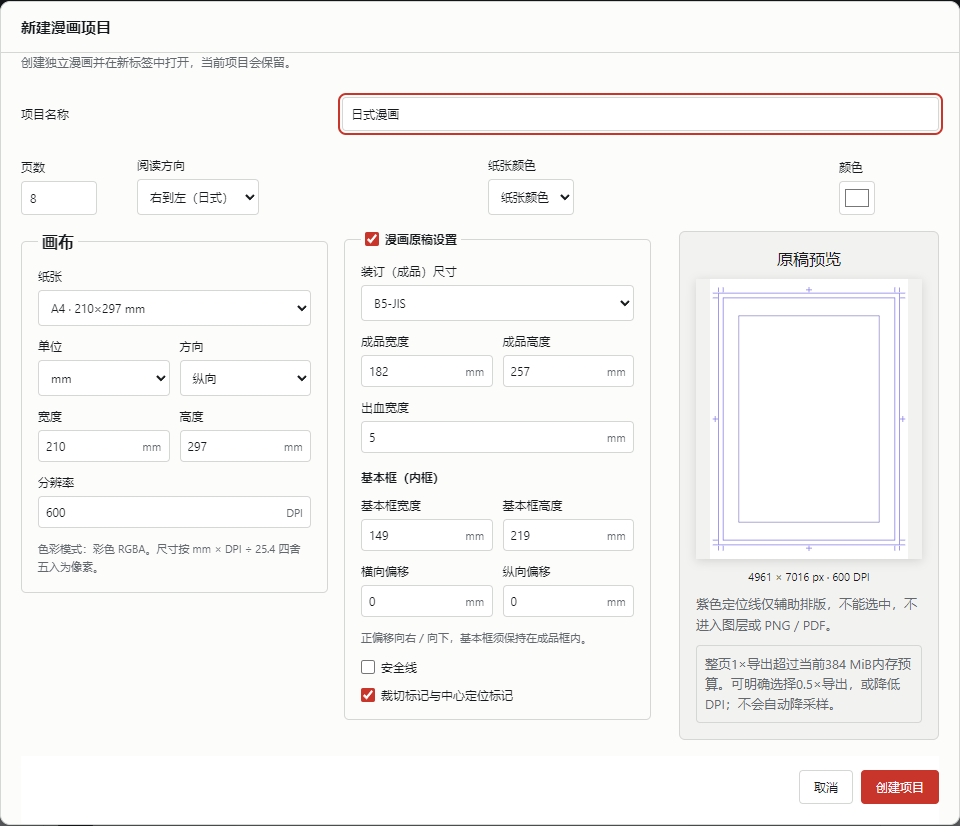
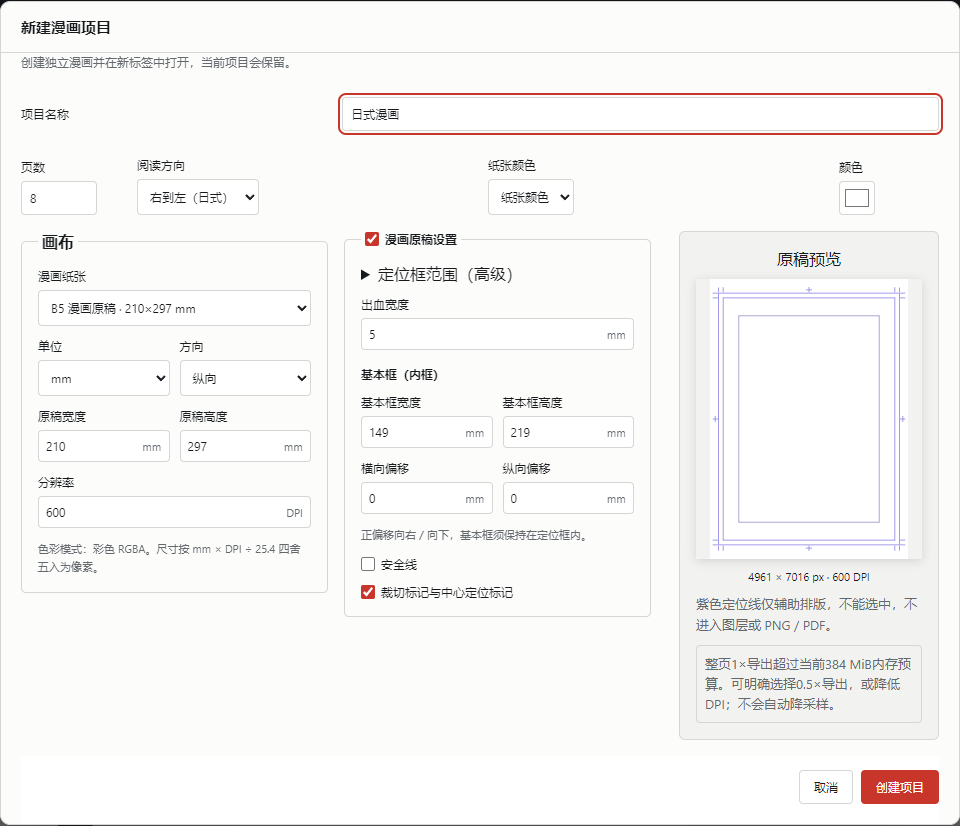
Use B5 comic manuscript preset and millimetre page controls

diff --git a/src/pages/PageSetupFields.tsx b/src/pages/PageSetupFields.tsx
@@ -5,23 +5,23 @@ import { resolvePageSize } from './commands';
 import { DEFAULT_COMIC_DPI, defaultManuscript, manuscriptSegments, parseManuscript, type ManuscriptSettings } from './manuscript';
 import './manuscript.css';
 
-export const PAPER_SIZES = { A4: [210, 297], 'B4-JIS': [257, 364], 'B4-ISO': [250, 353], 'B5-JIS': [182, 257], 'B5-ISO': [176, 250], A5: [148, 210] } as const;
-type SizePreset = keyof typeof PAPER_SIZES | 'custom';
+import { PAPER_SIZES, CANVAS_PRESETS, canvasPresetLabel, isB5Manuscript, pageDimensionsMm, trimSizePreset, type SizePreset, type CanvasPreset } from './paperSizes';
 export interface PageSetupDraft {
-  preset: SizePreset; orientation: 'portrait' | 'landscape'; unit: 'mm' | 'px'; width: string; height: string; dpi: string;
+  preset: CanvasPreset; orientation: 'portrait' | 'landscape'; unit: 'mm' | 'px'; width: string; height: string; dpi: string;
   manuscript: boolean; trimPreset: SizePreset; trimWidth: string; trimHeight: string; bleed: string;
   basicWidth: string; basicHeight: string; offsetX: string; offsetY: string; safe: boolean; safeInset: string; cropMarks: boolean;
 }
 export function createPageSetupDraft(page?: Page): PageSetupDraft {
   const m = page?.manuscript ?? defaultManuscript(), dpi = page?.dpi ?? DEFAULT_COMIC_DPI;
-  return { preset: page ? 'custom' : 'A4', orientation: 'portrait', unit: 'mm', width: String(page ? page.width * 25.4 / dpi : 210), height: String(page ? page.height * 25.4 / dpi : 297), dpi: String(dpi),
-    manuscript: page ? !!page.manuscript : true, trimPreset: page ? 'custom' : 'B5-JIS', trimWidth: String(m.trim.widthMm), trimHeight: String(m.trim.heightMm), bleed: String(m.bleedMm),
+  const mm = page ? pageDimensionsMm(page) : { width: 210, height: 297 };
+  return { preset: !page || isB5Manuscript(page) ? 'comic-B5' : 'custom', orientation: page && page.width > page.height ? 'landscape' : 'portrait', unit: 'mm', width: String(mm.width), height: String(mm.height), dpi: String(dpi),
+    manuscript: page ? !!page.manuscript : true, trimPreset: trimSizePreset(m.trim.widthMm, m.trim.heightMm), trimWidth: String(m.trim.widthMm), trimHeight: String(m.trim.heightMm), bleed: String(m.bleedMm),
     basicWidth: String(m.basicFrame.widthMm), basicHeight: String(m.basicFrame.heightMm), offsetX: String(m.basicFrame.offsetXMm), offsetY: String(m.basicFrame.offsetYMm),
     safe: m.safeInsetMm !== null, safeInset: String(m.safeInsetMm ?? 5), cropMarks: m.cropMarks };
 }
 const number = (value: string): number => value.trim() ? Number(value) : NaN;
 export function resolvePageSetup(draft: PageSetupDraft): Result<{ width: number; height: number; dpi: number; manuscript?: ManuscriptSettings }> {
-  const dpi = number(draft.dpi), paper = draft.preset === 'custom' ? null : PAPER_SIZES[draft.preset];
+  const dpi = number(draft.dpi), paper = draft.preset === 'custom' ? null : CANVAS_PRESETS[draft.preset];
   let width = paper ? mmToPx(paper[0], dpi) : draft.unit === 'mm' ? mmToPx(number(draft.width), dpi) : number(draft.width);
   let height = paper ? mmToPx(paper[1], dpi) : draft.unit === 'mm' ? mmToPx(number(draft.height), dpi) : number(draft.height);
   if (paper && draft.orientation === 'landscape') [width, height] = [height, width];
@@ -52,23 +52,23 @@ export function PageSetupFields({ draft, change, prefix }: { draft: PageSetupDra
   }} /><span>mm</span></span></label>;
   return <div className="manuscript-fields">
     <fieldset><legend>画布</legend>
-      <label>纸张<select aria-label={`${prefix}纸张`} value={draft.preset} onChange={e => { const preset = e.target.value as SizePreset; change({ ...draft, preset, width: size.ok ? axis(size.value.width) : draft.width, height: size.ok ? axis(size.value.height) : draft.height }); }}>
-        {Object.entries(PAPER_SIZES).map(([id, mm]) => <option key={id} value={id}>{id.replace('-JIS', '（JIS）').replace('-ISO', '（ISO）')} · {mm[0]}×{mm[1]} mm</option>)}<option value="custom">自定义</option>
+      <label>漫画纸张<select aria-label={`${prefix}纸张`} value={draft.preset} onChange={e => { const preset = e.target.value as CanvasPreset; change({ ...draft, preset, width: size.ok ? axis(size.value.width) : draft.width, height: size.ok ? axis(size.value.height) : draft.height }); }}>
+        {Object.entries(CANVAS_PRESETS).map(([id, mm]) => <option key={id} value={id}>{canvasPresetLabel(id as CanvasPreset)} · {mm[0]}×{mm[1]} mm</option>)}<option value="custom">自定义</option>
       </select></label>
       <div className="manuscript-pair"><label>单位<select aria-label={`${prefix}单位`} value={draft.unit} onChange={e => { const unit = e.target.value as PageSetupDraft['unit']; const convert = (s: string) => String(Number((unit === 'mm' ? number(s) * 25.4 / number(draft.dpi) : mmToPx(number(s), number(draft.dpi))).toFixed(6))); change({ ...draft, unit, width: convert(draft.width), height: convert(draft.height) }); }}><option value="mm">mm</option><option value="px">px</option></select></label>
       <label>方向<select aria-label={`${prefix}方向`} value={draft.orientation} onChange={e => { const orientation = e.target.value as PageSetupDraft['orientation']; change({ ...draft, orientation,
         ...(draft.orientation !== orientation ? { ...((orientation === 'landscape' && number(draft.width) < number(draft.height)) || (orientation === 'portrait' && number(draft.width) > number(draft.height)) ? { width: draft.height, height: draft.width } : {}), trimWidth: draft.trimHeight, trimHeight: draft.trimWidth, basicWidth: draft.basicHeight, basicHeight: draft.basicWidth, offsetX: draft.offsetY, offsetY: draft.offsetX } : {}) }); }}><option value="portrait">纵向</option><option value="landscape">横向</option></select></label></div>
-      <div className="manuscript-pair">{(['width', 'height'] as const).map((key, i) => <label key={key}>{i ? '高度' : '宽度'}<span className="manuscript-number"><input aria-label={`${prefix}${i ? '高度' : '宽度'}`} type="number" step={draft.unit === 'mm' ? '.01' : '1'} readOnly={draft.preset !== 'custom'} value={draft.preset === 'custom' ? draft[key] : draft.unit === 'mm' ? PAPER_SIZES[draft.preset][draft.orientation === 'landscape' ? 1 - i : i] : axis(size.ok ? size.value[key] : undefined)} onChange={e => set(key, e.target.value)} /><span>{draft.unit}</span></span></label>)}</div>
+      <div className="manuscript-pair">{(['width', 'height'] as const).map((key, i) => <label key={key}>{i ? '原稿高度' : '原稿宽度'}<span className="manuscript-number"><input aria-label={`${prefix}${i ? '高度' : '宽度'}`} type="number" step={draft.unit === 'mm' ? '.01' : '1'} readOnly={draft.preset !== 'custom'} value={draft.preset === 'custom' ? draft[key] : draft.unit === 'mm' ? CANVAS_PRESETS[draft.preset][draft.orientation === 'landscape' ? 1 - i : i] : axis(size.ok ? size.value[key] : undefined)} onChange={e => set(key, e.target.value)} /><span>{draft.unit}</span></span></label>)}</div>
       <label>分辨率<span className="manuscript-number"><input aria-label={`${prefix} DPI`} type="number" min="72" max="600" step="1" value={draft.dpi} onChange={e => set('dpi', e.target.value)} /><span>DPI</span></span></label>
       <small>色彩模式：彩色 RGBA。尺寸按 mm × DPI ÷ 25.4 四舍五入为像素。</small>
     </fieldset>
     <fieldset><legend><label className="manuscript-check"><input type="checkbox" aria-label={`${prefix}漫画原稿设置`} checked={draft.manuscript} onChange={e => set('manuscript', e.target.checked)} />漫画原稿设置</label></legend>
       <div className={!draft.manuscript ? 'manuscript-disabled' : undefined}><fieldset disabled={!draft.manuscript} className="manuscript-inner">
-      <label>装订（成品）尺寸<select aria-label={`${prefix}成品预设`} value={draft.trimPreset} onChange={e => { const trimPreset = e.target.value as SizePreset, mm = trimPreset === 'custom' ? null : PAPER_SIZES[trimPreset]; change({ ...draft, trimPreset, ...(mm ? { trimWidth: String(mm[draft.orientation === 'landscape' ? 1 : 0]), trimHeight: String(mm[draft.orientation === 'landscape' ? 0 : 1]) } : {}) }); }}>{Object.keys(PAPER_SIZES).map(id => <option key={id} value={id}>{id}</option>)}<option value="custom">自定义</option></select></label>
-      <div className="manuscript-pair">{field('trimWidth', '成品宽度')}{field('trimHeight', '成品高度')}</div>{field('bleed', '出血宽度')}
+      <details><summary>定位框范围（高级）</summary><label>定位框预设<select aria-label={`${prefix}定位框预设`} value={draft.trimPreset} onChange={e => { const trimPreset = e.target.value as SizePreset, mm = trimPreset === 'custom' ? null : PAPER_SIZES[trimPreset]; change({ ...draft, trimPreset, ...(mm ? { trimWidth: String(mm[draft.orientation === 'landscape' ? 1 : 0]), trimHeight: String(mm[draft.orientation === 'landscape' ? 0 : 1]) } : {}) }); }}>{Object.keys(PAPER_SIZES).map(id => <option key={id} value={id}>{id.replace('-JIS','（JIS）').replace('-ISO','（ISO）')}</option>)}<option value="custom">自定义</option></select></label>
+      <div className="manuscript-pair">{field('trimWidth', '定位框宽度')}{field('trimHeight', '定位框高度')}</div></details>{field('bleed', '出血宽度')}
       <h4>基本框（内框）</h4><div className="manuscript-pair">{field('basicWidth', '基本框宽度')}{field('basicHeight', '基本框高度')}</div>
       <div className="manuscript-pair">{field('offsetX', '横向偏移')}{field('offsetY', '纵向偏移')}</div>
-      <small>正偏移向右／向下，基本框须保持在成品框内。</small>
+      <small>正偏移向右／向下，基本框须保持在定位框内。</small>
       <label className="manuscript-check"><input type="checkbox" checked={draft.safe} onChange={e => set('safe', e.target.checked)} />安全线</label>{draft.safe && field('safeInset', '安全边距')}
       <label className="manuscript-check"><input type="checkbox" checked={draft.cropMarks} onChange={e => set('cropMarks', e.target.checked)} />裁切标记与中心定位标记</label>
       </fieldset></div>

diff --git a/src/workspacePanels/PageManagerPanel.tsx b/src/workspacePanels/PageManagerPanel.tsx
@@ -4,23 +4,28 @@ import { pushNotice,sessionStore } from '../state/sessionStore';
 import { PageList } from '../pages/PageList';
 import { addPage,resizePage,setReadingDirection,type PageSizeInput,type PaperPreset } from '../pages/commands';
 import { PageSetupDialog } from '../pages/PageSetupDialog';
+import { pageDimensionsMm, isB5Manuscript } from '../pages/paperSizes';
 function notice(r:Result<unknown>){if(!r.ok)pushNotice('error',r.problems[0].message);}
 export function PageManagerPanel({project,pageId,rename,remove}:{project:Project;pageId:Id;rename:(id:Id)=>void;remove:(id:Id)=>void}) {
 const currentPage=project.pages[pageId];
 const [setupOpen,setSetupOpen]=useState(false);
 useEffect(()=>setSetupOpen(false),[pageId,project.id]);
-const [paperPreset,setPaperPreset]=useState<PaperPreset>('custom'),[paperOrientation,setPaperOrientation]=useState<'portrait'|'landscape'>('portrait'),[paperWidth,setPaperWidth]=useState(''),[paperHeight,setPaperHeight]=useState(''),[paperDpi,setPaperDpi]=useState('300');
-useEffect(()=>{if(!currentPage)return;setPaperPreset('custom');setPaperOrientation('portrait');setPaperWidth(String(currentPage.width));setPaperHeight(String(currentPage.height));setPaperDpi(String(currentPage.dpi));},[pageId,currentPage?.width,currentPage?.height,currentPage?.dpi]);
-const applyPageSize=()=>{const input:PageSizeInput={preset:paperPreset,orientation:paperOrientation,dpi:Number(paperDpi),widthPx:Number(paperWidth),heightPx:Number(paperHeight),snap16:sessionStore.getState().snap16};if(window.confirm('内容位置不变，超出页面边界的部分导出时裁切。继续修改页面尺寸？'))notice(resizePage(pageId,input));};
+const [paperPreset,setPaperPreset]=useState<PaperPreset|'comic-B5'>('comic-B5'),[paperOrientation,setPaperOrientation]=useState<'portrait'|'landscape'>('portrait'),[paperWidth,setPaperWidth]=useState(''),[paperHeight,setPaperHeight]=useState(''),[paperDpi,setPaperDpi]=useState('300');
+const [paperUnit,setPaperUnit]=useState<'mm'|'px'>('mm');
+useEffect(()=>{if(!currentPage)return;const mm=pageDimensionsMm(currentPage);setPaperPreset(isB5Manuscript(currentPage)?'comic-B5':'custom');setPaperOrientation(currentPage.width>currentPage.height?'landscape':'portrait');setPaperWidth(String(paperUnit==='mm'?mm.width:currentPage.width));setPaperHeight(String(paperUnit==='mm'?mm.height:currentPage.height));setPaperDpi(String(currentPage.dpi));},[pageId,currentPage?.width,currentPage?.height,currentPage?.dpi]);
+const changeUnit=(unit:'mm'|'px')=>{if(unit===paperUnit)return;const dpi=Number(paperDpi);if(!Number.isInteger(dpi)||dpi<72||dpi>600){pushNotice('error','请先输入72～600的整数DPI');return;}const nominal=currentPage&&Number(paperWidth)===currentPage.width&&Number(paperHeight)===currentPage.height?pageDimensionsMm(currentPage):null;const convert=(value:string,axis:'width'|'height')=>!value.trim()?'':String(unit==='px'?Math.round(Number(value)*dpi/25.4):nominal?.[axis]??Number((Number(value)*25.4/dpi).toFixed(6)));setPaperWidth(convert(paperWidth,'width'));setPaperHeight(convert(paperHeight,'height'));setPaperUnit(unit);};
+const changeOrientation=(orientation:'portrait'|'landscape')=>{if((orientation==='landscape'&&Number(paperWidth)<Number(paperHeight))||(orientation==='portrait'&&Number(paperWidth)>Number(paperHeight))){setPaperWidth(paperHeight);setPaperHeight(paperWidth);}setPaperOrientation(orientation);};
+const applyPageSize=()=>{const axis=(value:string)=>!value.trim()?NaN:paperUnit==='mm'?Math.round(Number(value)*Number(paperDpi)/25.4):Number(value);const input:PageSizeInput={preset:paperPreset==='comic-B5'?'custom':paperPreset,orientation:(paperPreset==='custom'||paperPreset==='comic-B5')?'portrait':paperOrientation,dpi:Number(paperDpi),widthPx:axis(paperWidth),heightPx:axis(paperHeight),snap16:paperUnit==='px'&&sessionStore.getState().snap16};if(window.confirm('内容位置不变，超出页面边界的部分导出时裁切。继续修改原稿画布尺寸？'))notice(resizePage(pageId,input));};
 return <div className="pages">
           <div className="section-title"><span>项目页面</span><button className="tiny-action" onClick={() => notice(addPage(pageId))}>+ 新建漫画页</button></div>
-          <PageList project={project} activeId={pageId} rename={rename} remove={remove} />
+          <PageList project={project} activeId={pageId} rename={rename} remove={remove} unit={paperUnit} />
           <div className="page-settings"><strong>当前页面</strong>
             <button onClick={()=>setSetupOpen(true)}>漫画原稿与定位线设置…</button>
-            {currentPage?.manuscript&&<div className="manuscript-current"><span>成品：{currentPage.manuscript.trim.widthMm} × {currentPage.manuscript.trim.heightMm} mm · 出血 {currentPage.manuscript.bleedMm} mm</span><span>基本框：{currentPage.manuscript.basicFrame.widthMm} × {currentPage.manuscript.basicFrame.heightMm} mm</span><span>定位线仅编辑时显示，不属于实际图层。</span></div>}
-            <label>纸张 <select aria-label="纸张" value={paperPreset} onChange={(event) => setPaperPreset(event.target.value as PaperPreset)}><option value="custom">自定义像素</option><option value="A4">A4 · 210×297 mm</option><option value="B4-ISO">ISO B4 · 250×353 mm</option></select></label>
-            <label>方向 <select aria-label="纸张方向" value={paperOrientation} onChange={(event) => setPaperOrientation(event.target.value as 'portrait' | 'landscape')}><option value="portrait">纵向</option><option value="landscape">横向</option></select></label>
-            {paperPreset === 'custom' && <div className="page-dimensions"><label>宽 px<input aria-label="页面宽度" type="number" min="16" max="16384" value={paperWidth} onChange={(event) => setPaperWidth(event.target.value)} /></label><label>高 px<input aria-label="页面高度" type="number" min="16" max="16384" value={paperHeight} onChange={(event) => setPaperHeight(event.target.value)} /></label></div>}
+            {currentPage?.manuscript&&<div className="manuscript-current"><strong>纸张：{isB5Manuscript(currentPage)?'B5 漫画原稿':'自定义漫画原稿'}</strong><span>原稿 {pageDimensionsMm(currentPage).width} × {pageDimensionsMm(currentPage).height} mm · {currentPage.dpi} DPI</span><span>出血 {currentPage.manuscript.bleedMm} mm · 基本框 {currentPage.manuscript.basicFrame.widthMm} × {currentPage.manuscript.basicFrame.heightMm} mm</span><span>定位线仅编辑时显示，不属于实际图层。</span></div>}
+            <label>漫画纸张 <select aria-label="纸张" value={paperPreset} onChange={event=>{const preset=event.target.value as PaperPreset|'comic-B5';setPaperPreset(preset);if(preset==='comic-B5'){const horizontal=paperOrientation==='landscape',w=horizontal?297:210,h=horizontal?210:297;setPaperWidth(String(paperUnit==='mm'?w:Math.round(w*Number(paperDpi)/25.4)));setPaperHeight(String(paperUnit==='mm'?h:Math.round(h*Number(paperDpi)/25.4)));}}}><option value="comic-B5">B5 漫画原稿 · 210×297 mm</option><option value="custom">自定义原稿画布</option><option value="A4">210×297 mm（普通画布）</option><option value="B4-ISO">250×353 mm（普通画布）</option></select></label>
+            <label>单位 <select aria-label="页面单位" value={paperUnit} onChange={event=>changeUnit(event.target.value as 'mm'|'px')}><option value="mm">mm</option><option value="px">px</option></select></label>
+            <label>方向 <select aria-label="纸张方向" value={paperOrientation} onChange={(event) => changeOrientation(event.target.value as 'portrait' | 'landscape')}><option value="portrait">纵向</option><option value="landscape">横向</option></select></label>
+            {(paperPreset === 'custom'||paperPreset==='comic-B5') && <div className="page-dimensions"><label>原稿宽 {paperUnit}<input aria-label="页面宽度" type="number" step={paperUnit==='mm'?'.01':'1'} value={paperWidth} onChange={(event) => {setPaperPreset('custom');setPaperWidth(event.target.value);}} /></label><label>原稿高 {paperUnit}<input aria-label="页面高度" type="number" step={paperUnit==='mm'?'.01':'1'} value={paperHeight} onChange={(event) => {setPaperPreset('custom');setPaperHeight(event.target.value);}} /></label></div>}
             <label>DPI <input aria-label="页面 DPI" type="number" min="72" max="600" value={paperDpi} onChange={(event) => setPaperDpi(event.target.value)} /></label>
             <button onClick={applyPageSize}>应用页面尺寸</button>
             <label>阅读方向 <select aria-label="阅读方向" value={project.settings.readingDirection} onChange={(event) => notice(setReadingDirection(event.target.value as 'ltr' | 'rtl'))}><option value="ltr">左到右</option><option value="rtl">右到左</option></select></label>

diff --git a/tests/e2e/manuscript.spec.ts b/tests/e2e/manuscript.spec.ts
@@ -13,7 +13,8 @@ test('default comic setup creates 8 independent A4/600/B5 manuscript pages and a
   const initial = await state(page); expect(initial.project.pages[initial.project.pageOrder[0]]).toMatchObject({ width: 4961, height: 7016, dpi: 600, manuscript: { bleedMm: 5 } });
   await (await menuCommand(page, '新建项目…')).click(); const dialog = page.getByRole('dialog', { name: '新建项目', exact: true });
   await expect(dialog.getByLabel('新项目页数')).toHaveValue('8'); await expect(dialog.getByLabel('新项目 DPI')).toHaveValue('600');
-  await expect(dialog.getByLabel('新项目宽度')).toHaveValue('210'); await expect(dialog.getByLabel('新项目成品宽度')).toHaveValue('182');
+  await expect(dialog.getByLabel('新项目纸张',{exact:true})).toHaveValue('comic-B5'); await expect(dialog.getByLabel('新项目单位')).toHaveValue('mm'); await expect(dialog.getByText(/装订|成品/)).toHaveCount(0);
+  await expect(dialog.getByLabel('新项目宽度')).toHaveValue('210'); await expect(dialog.getByLabel('新项目定位框宽度')).toHaveValue('182');
   await expect(dialog.getByRole('img', { name: '漫画原稿定位线预览' })).toBeVisible(); await dialog.getByLabel('新项目名称').fill('日式漫画');
   await dialog.screenshot({ path: `output/manuscript/new-comic-dpr${test.info().project.name.endsWith('1') ? 1 : 2}.png` });
   await dialog.getByRole('button', { name: '创建项目', exact: true }).click(); await expect(dialog).toHaveCount(0);
@@ -70,6 +71,20 @@ test('millimetre/pixel custom pages, orientation, page counts and transparent pa
   await dialog.getByLabel('新项目宽度').fill('113'); await dialog.getByLabel('新项目高度').fill('79'); await dialog.getByLabel('新项目方向').selectOption('landscape');
   await dialog.getByLabel('新项目页数').fill('0'); await expect(dialog.getByRole('button', { name: '创建项目' })).toBeDisabled(); await dialog.getByLabel('新项目页数').fill('1');
   await dialog.getByLabel('新项目背景').selectOption('transparent'); await dialog.getByRole('button', { name: '创建项目' }).click(); const s = await state(page); const p = s.project.pages[s.session.activePageId]; expect(p).toMatchObject({ width: 113, height: 79 }); expect(p.manuscript).toBeUndefined(); expect(s.project.layers[p.roots[0]]).toMatchObject({ fill: '#FFFFFF00' });
+});
+
+test('page sidebar defaults to B5 manuscript and mm; reopening retains the exact nominal manuscript dimensions', async ({ page }) => {
+  await page.getByRole('tab', { name: '页面', exact: true }).click(); const before = await state(page);
+  await expect(page.locator('.page-item').first()).toContainText('B5 漫画原稿 · 210 × 297 mm');
+  await expect(page.getByLabel('页面单位')).toHaveValue('mm'); await expect(page.getByLabel('页面宽度')).toHaveValue('210'); await expect(page.getByLabel('页面高度')).toHaveValue('297');
+  await page.getByLabel('页面单位').selectOption('px'); await expect(page.getByLabel('页面宽度')).toHaveValue('4961'); await expect(page.locator('.page-item').first()).toContainText('4961 × 7016 px');
+  await page.getByLabel('页面单位').selectOption('mm'); await expect(page.getByLabel('页面宽度')).toHaveValue('210'); expect((await state(page)).project).toEqual(before.project); expect((await state(page)).stateId).toBe(before.stateId);
+  const dialog = await openPageSetup(page); await expect(dialog.getByLabel('页面单位')).toHaveValue('mm'); await expect(dialog.getByLabel('页面宽度')).toHaveValue('210'); await expect(dialog.getByLabel('页面高度')).toHaveValue('297');
+  await expect(dialog.getByLabel('页面定位框预设')).toHaveValue('B5-JIS'); await expect(dialog.getByLabel('页面定位框宽度')).toHaveValue('182'); await expect(dialog.getByLabel('页面定位框高度')).toHaveValue('257');
+  await dialog.getByRole('button', { name: '取消', exact: true }).click(); expect((await state(page)).project).toEqual(before.project);
+  await page.getByLabel('页面宽度').fill('220'); page.once('dialog', dialog=>dialog.accept()); await page.getByRole('button',{name:'应用页面尺寸',exact:true}).click();
+  const changed=await state(page); expect(changed.project.pages[changed.session.activePageId].width).toBe(5197); expect(changed.project.pages[changed.session.activePageId].manuscript).toEqual(before.project.pages[before.session.activePageId].manuscript); expect(changed.past).toBe(before.past+1);
+  await (await menuCommand(page,'撤销')).click(); expect((await state(page)).project).toEqual(before.project); await expect(page.getByLabel('页面宽度')).toHaveValue('210');
 });
 
 test('positioning guide render cost is bounded on the active A4 manuscript without painting main content', async ({ page }) => {

diff --git a/tests/unit/paperSizes.test.ts b/tests/unit/paperSizes.test.ts
@@ -1,0 +1,31 @@
+import { describe, expect, it } from 'vitest';
+import { createProject } from '../../src/domain/factories';
+import { pageDimensionsMm, trimSizePreset, paperPresetLabel } from '../../src/pages/paperSizes';
+import { createPageSetupDraft, resolvePageSetup } from '../../src/pages/PageSetupFields';
+
+describe('paper units and finished B5 recognition', () => {
+  it('reopens the default comic as mm and B5 finished paper, without changing rounded pixels', () => {
+    const p = createProject({ comic: true }), page = p.pages[p.pageOrder[0]], before = structuredClone(page), draft = createPageSetupDraft(page);
+    expect(createPageSetupDraft()).toMatchObject({ preset: 'comic-B5', unit: 'mm', trimPreset: 'B5-JIS', width: '210', height: '297' });
+    expect(draft).toMatchObject({ unit: 'mm', width: '210', height: '297', trimPreset: 'B5-JIS', trimWidth: '182', trimHeight: '257', dpi: '600' });
+    expect(resolvePageSetup(draft)).toMatchObject({ ok: true, value: { width: 4961, height: 7016, manuscript: page.manuscript } }); expect(page).toEqual(before);
+  });
+  it('recognizes portrait and landscape standard canvases at 300 and 600dpi without fractional mm drift', () => {
+    expect(pageDimensionsMm({ width: 2480, height: 3508, dpi: 300 })).toEqual({ width: 210, height: 297 });
+    expect(pageDimensionsMm({ width: 7016, height: 4961, dpi: 600 })).toEqual({ width: 297, height: 210 });
+    expect(pageDimensionsMm({ width: 4299, height: 6071, dpi: 600 })).toEqual({ width: 182, height: 257 });
+    const p = createProject({ comic: true }), page = p.pages[p.pageOrder[0]]; [page.width, page.height] = [page.height, page.width];
+    const m = page.manuscript!; [m.trim.widthMm, m.trim.heightMm] = [m.trim.heightMm, m.trim.widthMm]; [m.basicFrame.widthMm, m.basicFrame.heightMm] = [m.basicFrame.heightMm, m.basicFrame.widthMm];
+    const draft = createPageSetupDraft(page); expect(draft).toMatchObject({ orientation: 'landscape', width: '297', height: '210', trimPreset: 'B5-JIS' }); expect(resolvePageSetup(draft)).toMatchObject({ ok: true, value: { width: 7016, height: 4961 } });
+  });
+  it('keeps JIS and ISO B5 distinct, preserves custom trim sizes and recognizes landscape', () => {
+    expect(trimSizePreset(182, 257)).toBe('B5-JIS'); expect(trimSizePreset(257, 182)).toBe('B5-JIS');
+    expect(trimSizePreset(176, 250)).toBe('B5-ISO'); expect(trimSizePreset(180, 260)).toBe('custom');
+    expect(paperPresetLabel(trimSizePreset(182, 257))).toBe('B5（JIS）');
+  });
+  it('round-trips custom pixel sizes through displayed millimetres without changing integer canvas boundaries', () => {
+    for (const dpi of [72, 300, 600]) for (const width of [16, 113, 8123, 16384]) {
+      const mm = pageDimensionsMm({ width, height: 79, dpi }); expect(Math.round(mm.width * dpi / 25.4)).toBe(width); expect(Math.round(mm.height * dpi / 25.4)).toBe(79);
+    }
+  });
+});

diff --git a/src/pages/PageList.tsx b/src/pages/PageList.tsx
@@ -6,6 +6,7 @@ import { finishActiveTextEdit } from '../text/editLifecycle';
 import { cancelActiveGesture } from '../interaction/activeGesture';
 import { activatePage, reorderPages } from './commands';
 import { PageThumbnail, PageThumbnailRetry } from './PageThumbnail';
+import { pageDimensionsMm, isB5Manuscript } from './paperSizes';
 
 interface PageDrag {
   id: Id; pointerId: number; stateId: Id; epoch: number; source: HTMLElement;
@@ -15,8 +16,8 @@ interface PageDrag {
 }
 
 /** Pointer capture fixes the source before scrolling. Preview DOM never updates the canvas or document. */
-export function PageList({ project, activeId, rename, remove }: {
-  project: Project; activeId: Id; rename: (id: Id) => void; remove: (id: Id) => void;
+export function PageList({ project, activeId, rename, remove, unit='mm' }: {
+  project: Project; activeId: Id; rename: (id: Id) => void; remove: (id: Id) => void; unit?:'mm'|'px';
 }) {
   const root = useRef<HTMLDivElement>(null), drag = useRef<PageDrag | null>(null), suppressClick = useRef(false);
   const clear = () => {
@@ -105,7 +106,7 @@ export function PageList({ project, activeId, rename, remove }: {
         if (commit) { event.preventDefault(); const result = reorderPages(active.id, insertion!.beforeId); if (!result.ok) pushNotice('error', result.problems[0].message); }
         else if (click) activatePage(active.id);
       }} onPointerCancel={clear} onLostPointerCapture={(event) => { if (drag.current?.pointerId === event.pointerId) clear(); }}>
-      <button onClick={() => activatePage(id)}><PageThumbnail pageId={id} index={index} /><span><strong>{project.pages[id].name}</strong><small>{project.pages[id].width} × {project.pages[id].height}</small></span></button>
+      <button onClick={() => activatePage(id)}><PageThumbnail pageId={id} index={index} /><span><strong>{project.pages[id].name}</strong>{unit==='px'?<small>{project.pages[id].width} × {project.pages[id].height} px</small>:<small>{isB5Manuscript(project.pages[id])?'B5 漫画原稿 · ':''}{pageDimensionsMm(project.pages[id]).width} × {pageDimensionsMm(project.pages[id]).height} mm</small>}</span></button>
       <PageThumbnailRetry pageId={id} />
       <button className="page-rename" title="重命名页面" aria-label="重命名页面" onClick={() => rename(id)}>✎</button>
       <button className="page-delete" title="删除页面" aria-label="删除页面" onClick={() => remove(id)}>×</button>

diff --git a/src/pages/paperSizes.ts b/src/pages/paperSizes.ts
@@ -1,0 +1,25 @@
+import type { Page } from '../domain/types';
+import { mmToPx } from '../domain/factories';
+
+export const PAPER_SIZES = { A4: [210, 297], 'B4-JIS': [257, 364], 'B4-ISO': [250, 353], 'B5-JIS': [182, 257], 'B5-ISO': [176, 250], A5: [148, 210] } as const;
+export type SizePreset = keyof typeof PAPER_SIZES | 'custom';
+export const CANVAS_PRESETS = { 'comic-B5': [210, 297] as const, ...PAPER_SIZES };
+export type CanvasPreset = keyof typeof CANVAS_PRESETS | 'custom';
+export function isB5Manuscript(page: Pick<Page, 'width' | 'height' | 'dpi'>): boolean {
+  return (page.width === mmToPx(210,page.dpi) && page.height === mmToPx(297,page.dpi)) || (page.width === mmToPx(297,page.dpi) && page.height === mmToPx(210,page.dpi));
+}
+export function canvasPresetLabel(preset: CanvasPreset): string { return preset==='comic-B5'?'B5 漫画原稿':paperPresetLabel(preset); }
+/** Recover standard nominal mm instead of presenting pixel rounding as a new paper size. */
+export function pageDimensionsMm(page: Pick<Page, 'width' | 'height' | 'dpi'>): { width: number; height: number } {
+  for (const [w, h] of Object.values(PAPER_SIZES)) {
+    if (page.width === mmToPx(w, page.dpi) && page.height === mmToPx(h, page.dpi)) return { width: w, height: h };
+    if (page.width === mmToPx(h, page.dpi) && page.height === mmToPx(w, page.dpi)) return { width: h, height: w };
+  }
+  return { width: Number((page.width * 25.4 / page.dpi).toFixed(6)), height: Number((page.height * 25.4 / page.dpi).toFixed(6)) };
+}
+export function trimSizePreset(widthMm: number, heightMm: number): SizePreset {
+  return (Object.entries(PAPER_SIZES).find(([, [w, h]]) => (Math.abs(w - widthMm) < 1e-7 && Math.abs(h - heightMm) < 1e-7) || (Math.abs(h - widthMm) < 1e-7 && Math.abs(w - heightMm) < 1e-7))?.[0] as SizePreset | undefined) ?? 'custom';
+}
+export function paperPresetLabel(preset: SizePreset): string {
+  return preset === 'custom' ? '自定义' : preset.replace('-JIS', '（JIS）').replace('-ISO', '（ISO）');
+}

diff --git a/src/pages/manuscript.ts b/src/pages/manuscript.ts
@@ -40,8 +40,8 @@ export function parseManuscript(value: unknown, page: Pick<Page, 'width' | 'heig
   const g = manuscriptGeometry(page, v), epsilon = .500001; // The outer canvas alone is rounded to integer px.
   const inside = (inner: Rect, outer: Rect) => inner.x >= outer.x - epsilon && inner.y >= outer.y - epsilon &&
     inner.x + inner.width <= outer.x + outer.width + epsilon && inner.y + inner.height <= outer.y + outer.height + epsilon;
-  if (!inside(g.bleed, { x: 0, y: 0, width: page.width, height: page.height })) return bad('成品尺寸加两侧出血必须放得进画布');
-  if (g.trim.width < 1 || g.trim.height < 1 || g.basic.width < 1 || g.basic.height < 1 || !inside(g.basic, g.trim)) return bad('基本框（含偏移）必须位于成品框内，框的宽高至少1像素');
+  if (!inside(g.bleed, { x: 0, y: 0, width: page.width, height: page.height })) return bad('定位框加两侧出血必须放得进画布');
+  if (g.trim.width < 1 || g.trim.height < 1 || g.basic.width < 1 || g.basic.height < 1 || !inside(g.basic, g.trim)) return bad('基本框（含偏移）必须位于定位框内，框的宽高至少1像素');
   if (g.safe && (g.safe.width < 1 || g.safe.height < 1)) return bad('安全边距过大，安全框须保留至少1像素的宽高');
   return ok({ trim: { ...v.trim }, bleedMm: v.bleedMm, basicFrame: { ...v.basicFrame }, safeInsetMm: v.safeInsetMm, cropMarks: v.cropMarks });
 }

diff --git a/tests/offline/manuscript.spec.ts b/tests/offline/manuscript.spec.ts
@@ -9,6 +9,7 @@ test('production offline comic setup and saved guides reopen; actual PNG and all
   await context.setOffline(true); await page.reload();
   await (await menuCommand(page, '新建项目…')).click(); const dialog = page.getByRole('dialog', { name: '新建项目', exact: true });
   await expect(dialog.getByLabel('新项目 DPI')).toHaveValue('600'); await expect(dialog.getByLabel('新项目页数')).toHaveValue('8');
+  await expect(dialog.getByLabel('新项目纸张',{exact:true})).toHaveValue('comic-B5'); await expect(dialog.getByLabel('新项目单位')).toHaveValue('mm'); await expect(dialog.getByText(/装订|成品/)).toHaveCount(0);
   await dialog.getByLabel('新项目名称').fill('离线原稿'); await dialog.getByRole('button', { name: '创建项目', exact: true }).click(); await expect(dialog).toHaveCount(0);
   const download = page.waitForEvent('download'); await (await menuCommand(page, '保存')).click(); const saved = await readFile((await (await download).path())!);
   const envelope = JSON.parse(saved.toString()); expect(envelope.project.schemaVersion).toBe(13); expect(envelope.project.pageOrder).toHaveLength(8);

diff --git a/tests/unit/manuscript.test.ts b/tests/unit/manuscript.test.ts
@@ -32,7 +32,7 @@ describe('comic manuscript setup and guides', () => {
     expect(g.safe!.width).toBeCloseTo((182 - 14) * k, 8);
     const draft = createPageSetupDraft(page); draft.width = '210.015666666667'; draft.height = String(page.height * 25.4 / page.dpi);
     expect(resolvePageSetup(draft)).toMatchObject({ ok: true, value: { width: page.width, height: page.height } });
-    draft.unit = 'px'; draft.width = '20.5'; draft.height = '200'; draft.manuscript = false; expect(resolvePageSetup(draft).ok).toBe(false);
+    draft.preset = 'custom'; draft.unit = 'px'; draft.width = '20.5'; draft.height = '200'; draft.manuscript = false; expect(resolvePageSetup(draft).ok).toBe(false);
   });
   it('rejects missing/nonfinite, negative, overflowing bleed/basic/offset/safety settings without mutating inputs', () => {
     const p = createProject({ comic: true }), page = p.pages[p.pageOrder[0]];

diff --git a/docs/guide/manuscript.md b/docs/guide/manuscript.md
@@ -2,34 +2,34 @@
 
 [文档导航](README.md) · [项目与页面](user-guide.md#projects) · [导出](user-guide.md#export)
 
-**文件 → 新建项目…**默认使用漫画原稿设置，预览随参数变化。创建后，各页和页面背景都是独立对象；定位线是编辑辅助，不会生成分镜或其他画面元素。
+**文件 → 新建项目…**默认选择B5漫画原稿（原稿210×297mm），单位mm，使用漫画原稿设置，预览随参数变化。创建后，各页和页面背景都是独立对象；定位线是编辑辅助，不会生成分镜或其他画面元素。
 
 ![新建漫画原稿设置](../assets/new-comic.png)
 
 | 参数 | 默认值 |
 | --- | --- |
-| 画布 | A4，210 × 297 mm，纵向 |
+| 漫画纸张 | B5 漫画原稿，原稿画布210 × 297 mm，纵向 |
 | 分辨率 | 600 DPI |
 | 色彩 | 彩色 RGBA，白色纸张 |
-| 装订／成品框 | JIS B5，182 × 257 mm |
+| 定位框范围（高级，默认折叠） | 182 × 257 mm |
 | 出血 | 四周各 5 mm |
 | 基本框／内框 | 149 × 219 mm |
 | 基本框横向／纵向偏移 | 0 mm / 0 mm |
-| 安全线 | 默认关闭；开启时默认向成品框内缩 5 mm |
+| 安全线 | 默认关闭；开启时默认向定位框内缩 5 mm |
 | 裁切及中心定位标记 | 开启 |
 | 新项目页数 | 8 页，可改为 1～100 页 |
 | 阅读方向 | 右到左（日式），可改为左到右 |
 
-画布预设包括 A4、A5、JIS B4/B5 和 ISO B4/B5；JIS 与 ISO 的 B 系列尺寸不同。自定义画布支持 mm 和 px。成品、出血、基本框和偏移始终以 mm 编辑。像素画布的每边范围为16～16384 px，DPI为72～600的整数。
+默认选择B5漫画原稿（原稿210×297mm）；还可选择普通A4/A5、JIS B4/B5和ISO B4/B5画布。界面不提供单独的装订／成品信息区。JIS 与 ISO 的 B 系列尺寸不同。自定义画布支持 mm 和 px。定位、出血、基本框和偏移始终以 mm 编辑。像素画布的每边范围为16～16384 px，DPI为72～600的整数。
 
 ## 定位线如何使用
 
 ![画布上的定位线](../assets/comic-guides.png)
 
-- **成品框**：装订裁切后的纸张范围，居中于原稿。
-- **出血框**：从成品框向四周扩展出血宽度。需要满版的画面通常延伸到这里。
+- **定位框**：内部定位边界，居中于原稿；相关数值放在默认折叠的高级定位设置中。
+- **出血框**：从定位框向四周扩展出血宽度。需要满版的画面通常延伸到这里。
 - **基本框**：排版参考范围，可以设置横向和纵向偏移；正值向右／向下。
-- **安全线**：可选的成品框内缩参考线，与基本框独立。
+- **安全线**：可选的定位框内缩参考线，与基本框独立。
 - **裁切标记与中心定位标记**：在原稿留白处显示短直线。留白不足时缩短或省略超出纸张的部分。
 
 定位线不能选中、移动、编组或锁定，不会拦截鼠标点击。主画面缩放或平移时，定位线一起跟随，线宽保持屏幕上的细线效果。页面缩略图也叠加定位线，缩略图的画面缓存保持纯画面。
@@ -40,7 +40,7 @@
 
 打开 **页面 → 页面设置…**，在页面面板点击 **漫画原稿与定位线设置…**。修改参数后点击 **应用原稿设置**：尺寸和定位参数作为一次编辑提交，支持完整撤销重做。取消不会更改当前漫画。
 
-更改纸张边界不会缩放或移动已有图层。需要小尺寸自由拼贴页面时，可关闭 **漫画原稿设置** 后使用自定义画布。启用时，成品框加两侧出血必须放进画布；基本框含偏移必须放进成品框；安全框必须保持正宽高。非法参数会显示原因，并禁止提交。
+更改纸张边界不会缩放或移动已有图层。需要小尺寸自由拼贴页面时，可关闭 **漫画原稿设置** 后使用自定义画布。启用时，定位框加两侧出血必须放进画布；基本框含偏移必须放进定位框；安全框必须保持正宽高。非法参数会显示原因，并禁止提交。
 
 **新建漫画页**一次增加一页，继承当前活动页的像素尺寸、DPI、原稿定位参数和纸张颜色。每页的参数独立，修改一页不会改写其他页。
 
@@ -48,9 +48,9 @@
 
 ## 保存和导出
 
-原稿参数随Comia项目保存，当前项目格式为13；支持校验并升级1～12的旧格式。显示开关属于浏览器首选项。PNG和PDF均只绘制正式图层，**不会包含任何定位线、裁切标记或中心定位标记**，也不会自动按成品框裁切：仍输出完整画布。
+原稿参数随Comia项目保存，当前项目格式为13；支持校验并升级1～12的旧格式。显示开关属于浏览器首选项。PNG和PDF均只绘制正式图层，**不会包含任何定位线、裁切标记或中心定位标记**，也不会自动按定位框裁切：仍输出完整画布。
 
-600 DPI的A4画布为4961 × 7016 px。当前输出仍遵守每边8192px、4000万像素、384 MiB估算内存预算；这张原稿的整页1×输出超过内存预检预算，因此新建预览及导出菜单会明确提示。可由你选择0.5×输出（2481 × 3508 px）、0.25×输出，或在创建前选择较低DPI；系统不会自动降低倍率。PDF物理纸张尺寸不随倍率改变。含大量图片或效果时，较低倍率也须通过实际资源预算检查。
+600 DPI的B5漫画原稿画布为4961 × 7016 px。当前输出仍遵守每边8192px、4000万像素、384 MiB估算内存预算；这张原稿的整页1×输出超过内存预检预算，因此新建预览及导出菜单会明确提示。可由你选择0.5×输出（2481 × 3508 px）、0.25×输出，或在创建前选择较低DPI；系统不会自动降低倍率。PDF物理纸张尺寸不随倍率改变。含大量图片或效果时，较低倍率也须通过实际资源预算检查。
 
 ## 换算与精度
 
@@ -65,6 +65,6 @@ basicY = (canvasHeightPx - basicHeightMm * k) / 2 + offsetYMm * k
 screenPoint = pagePoint * zoom + pan
 ```
 
-定位几何不逐边取整，因此基本框和成品框始终对称；只有显示栅格会抗锯齿。画布保存像素尺寸，重新打开自定义毫米输入时，可能显示像素反算后的微小小数差；不会改变内容位置。
+定位几何不逐边取整，因此基本框和定位框始终对称；只有显示栅格会抗锯齿。画布保存像素尺寸，重新打开自定义毫米输入时，可能显示像素反算后的微小小数差；不会改变内容位置。
 
 本次实现的是原稿、页数和定位参考。封面、作品信息、拼合裁切及印刷页码并未因此添加为画面元素。

diff --git a/docs/STATUS.md b/docs/STATUS.md
@@ -1,3 +1,9 @@
+# 2026-10-13 B5漫画原稿与默认mm显示修正
+
+按用户最终定义，默认漫画纸张为B5漫画原稿，原稿画布210×297mm、600DPI；页面面板和新建/原稿设置默认使用mm，不再将A4作为默认纸张显示，也不显示“装订／成品”信息。内部定位框设置保留于默认折叠的高级范围中，画面、旧文件和导出尺寸不变。
+
+页面缩略图以B5原稿和mm标注；标准原稿重开显示210/297，避免像素反算显示210.0157等漂移。仍可切换px，切换不改文档或历史；按mm修改原稿尺寸经过统一事务，支持单步撤销。已完成14项DPR1/2专项及默认预设/侧栏补充4项核验，当前生产构建和离线4项通过；最终106个文件762项单元测试通过，0失败／跳过；公共截图已更新。完整跨浏览器矩阵未执行，既有输出预算及其他边界保留。
+
 # 2026-10-13 漫画原稿与编辑定位线
 
 已实现CSP参考中的原稿设置：默认A4 210×297mm、600 DPI、JIS B5成品182×257mm、5mm出血、149×219mm基本框；新项目默认8页（日式右到左），页数可改为1～100。安全线可选，基本框可偏移。原稿参数、纸张颜色、毫米/像素和多种纸张预设可编辑；新增一页继承活动页的设置，修改参数支持单次撤销重做。

diff --git a/docs/guide/user-guide.md b/docs/guide/user-guide.md
@@ -27,7 +27,7 @@
 
 ### 新建另一部漫画
 
-**文件 → 新建项目…**：默认A4、600 DPI、白色纸张、8页日式漫画，并启用B5成品框、5mm出血和149×219mm基本框。可修改页数、原稿和纸张颜色；详见[漫画原稿与定位线](manuscript.md)。新项目在独立标签中打开，不把现有漫画的页面合并进来。
+**文件 → 新建项目…**：默认B5漫画原稿、210×297mm、600 DPI、白色纸张、8页日式漫画、5mm出血和149×219mm基本框。可修改页数、原稿和纸张颜色；详见[漫画原稿与定位线](manuscript.md)。新项目在独立标签中打开，不把现有漫画的页面合并进来。
 
 项目标签之间可切换；每个项目分别维护内容、撤销历史和保存目标。关闭标签时，未保存内容需要按提示处理。标签保留是当前应用会话的行为，不代表刷新后所有标签及历史自动重建。
 
